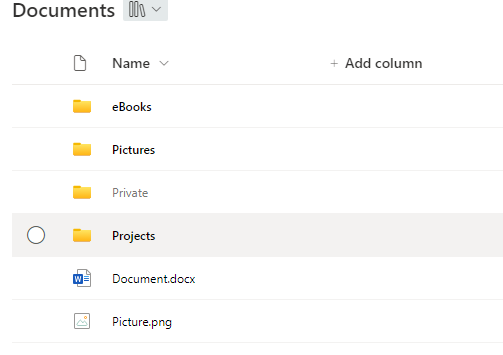
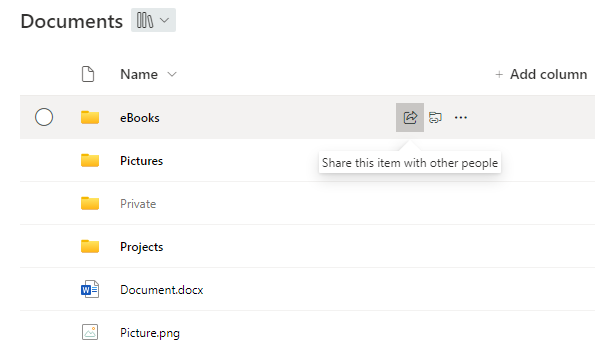
Add second sample for library-highlight-non-empty-folders (#768)
* Add sample highlight-non-empty-folders

* Added second sample with buttons

* Rename library-highlight-non-empty-folders-with-buttons.json to filename-highlight-non-empty-folders-with-buttons.json

* Delete column-samples/library-highlight-non-empty-folders/library-highlight-non-empty-folders.json

* Delete column-samples/library-highlight-non-empty-folders/README.md

* Delete column-samples/library-highlight-non-empty-folders/assets/sample.json

* Delete column-samples/library-highlight-non-empty-folders directory

* Update README.md

* Minor updates

* Update sample.json

---------

diff --git a/column-samples/filename-highlight-non-empty-folders/README.md b/column-samples/filename-highlight-non-empty-folders/README.md
@@ -6,6 +6,11 @@ It uses the 'Folder Child Count' and 'Item Child Count' columns to check if a fo
 
 ![screenshot of the sample](./assets/screenshot.png)
 
+**Update**
+
+Added a second version ([filename-highlight-non-empty-folders-with-buttons.json](./filename-highlight-non-empty-folders-with-buttons.json)) which brings back the buttons and functions a vanilla name column has. It's possible to share the folder and to open the context menu.
+
+Unfortunately, customRowAction doesn't support creating a shortcut to OneDrive yet. Therefore the 'OneDrive' button is only a placeholder which points out an alternative to create a shortcut. Clicking the button itself has no effect.
 
 ![screenshot of the sample with hidden columns](./assets/screenshot_hidden_columns.png)
 
@@ -19,6 +24,7 @@ It uses the 'Folder Child Count' and 'Item Child Count' columns to check if a fo
 Solution|Author(s)
 --------|---------
 filename-highlight-non-empty-folders | [Moritz Lickert](https://github.com/MoeIcI)
+filename-highlight-non-empty-folders-with-buttons | [Moritz Lickert](https://github.com/MoeIcI)
 
 
 ## Version history
@@ -26,6 +32,7 @@ filename-highlight-non-empty-folders | [Moritz Lickert](https://github.com/MoeIc
 Version|Date|Comments
 -------|----|--------
 1.0|October 6, 2023|Initial release
+2.0|January 24, 2024|Included 2nd version with Buttons
 
 ## Disclaimer
 **THIS CODE IS PROVIDED *AS IS* WITHOUT WARRANTY OF ANY KIND, EITHER EXPRESS OR IMPLIED, INCLUDING ANY IMPLIED WARRANTIES OF FITNESS FOR A PARTICULAR PURPOSE, MERCHANTABILITY, OR NON-INFRINGEMENT.**
